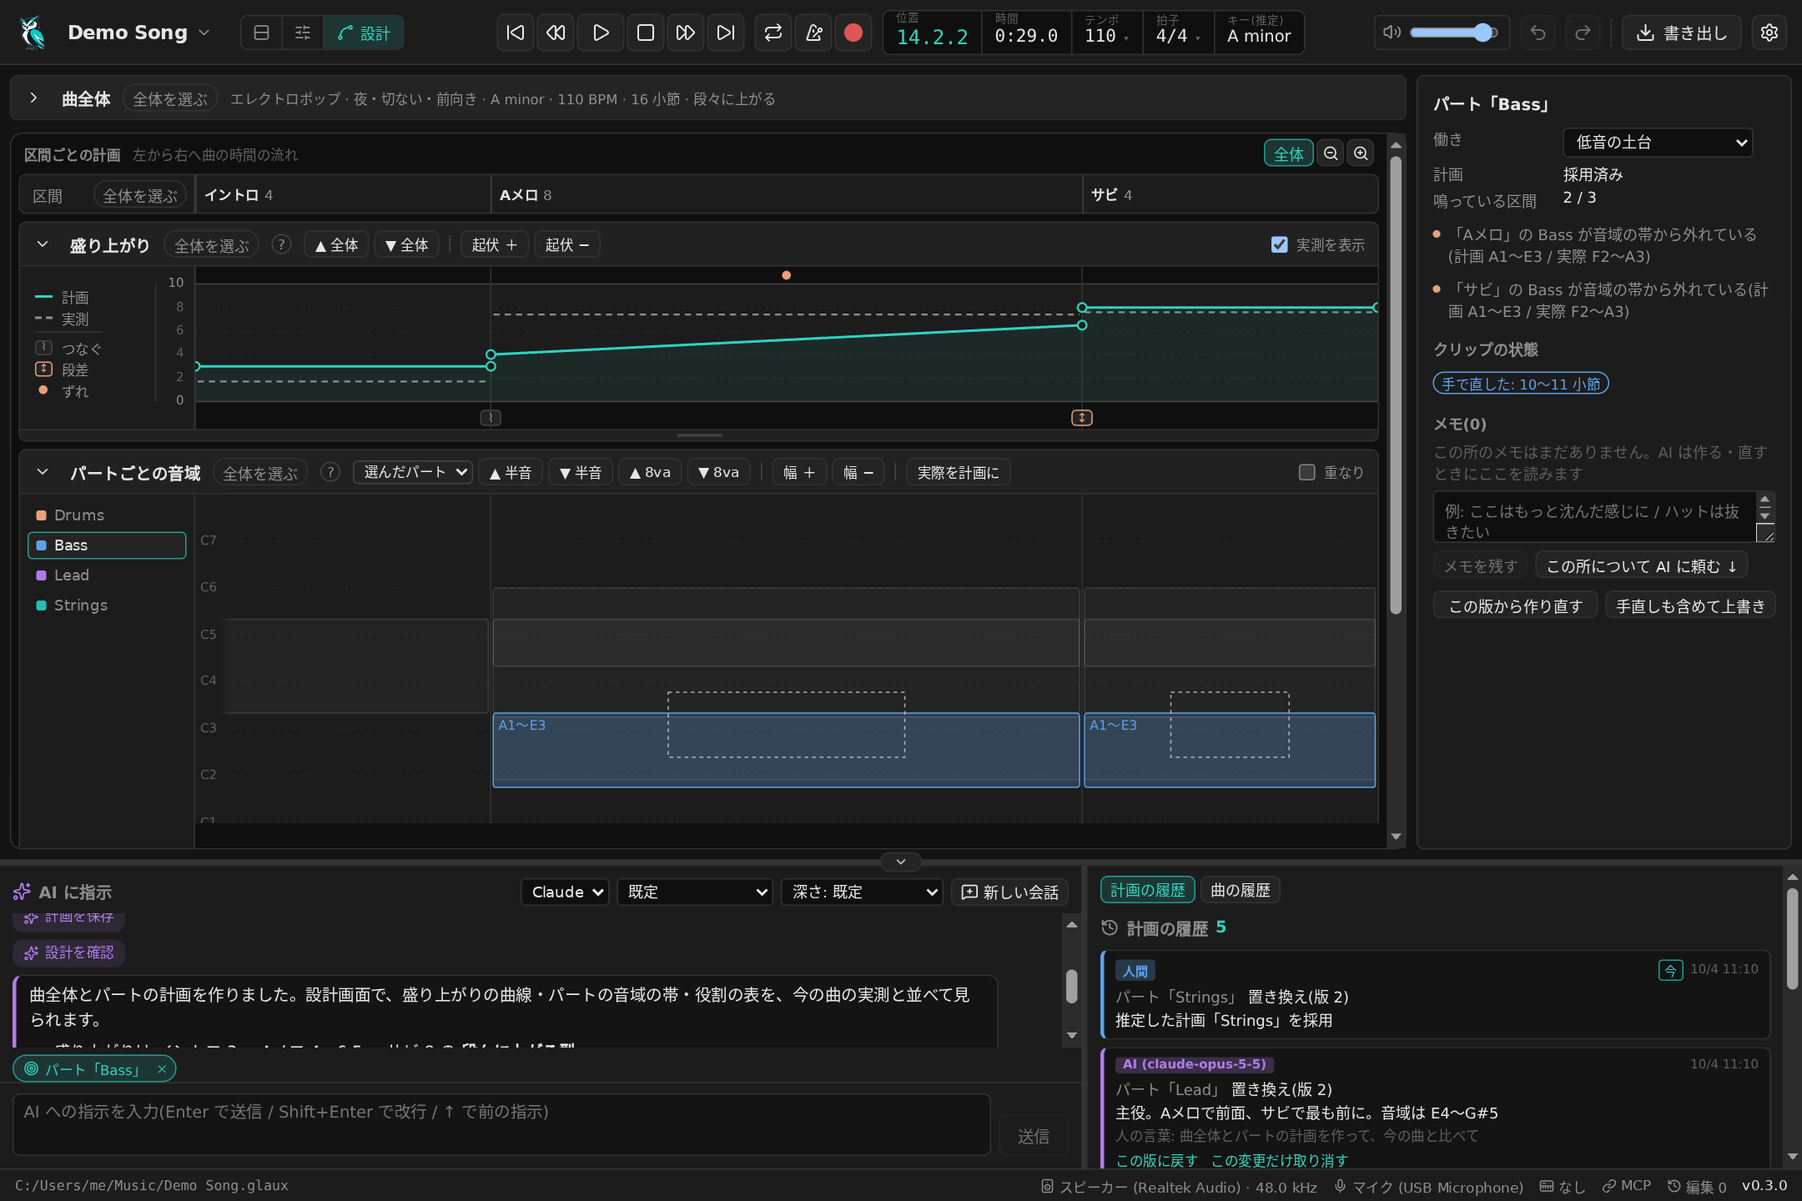
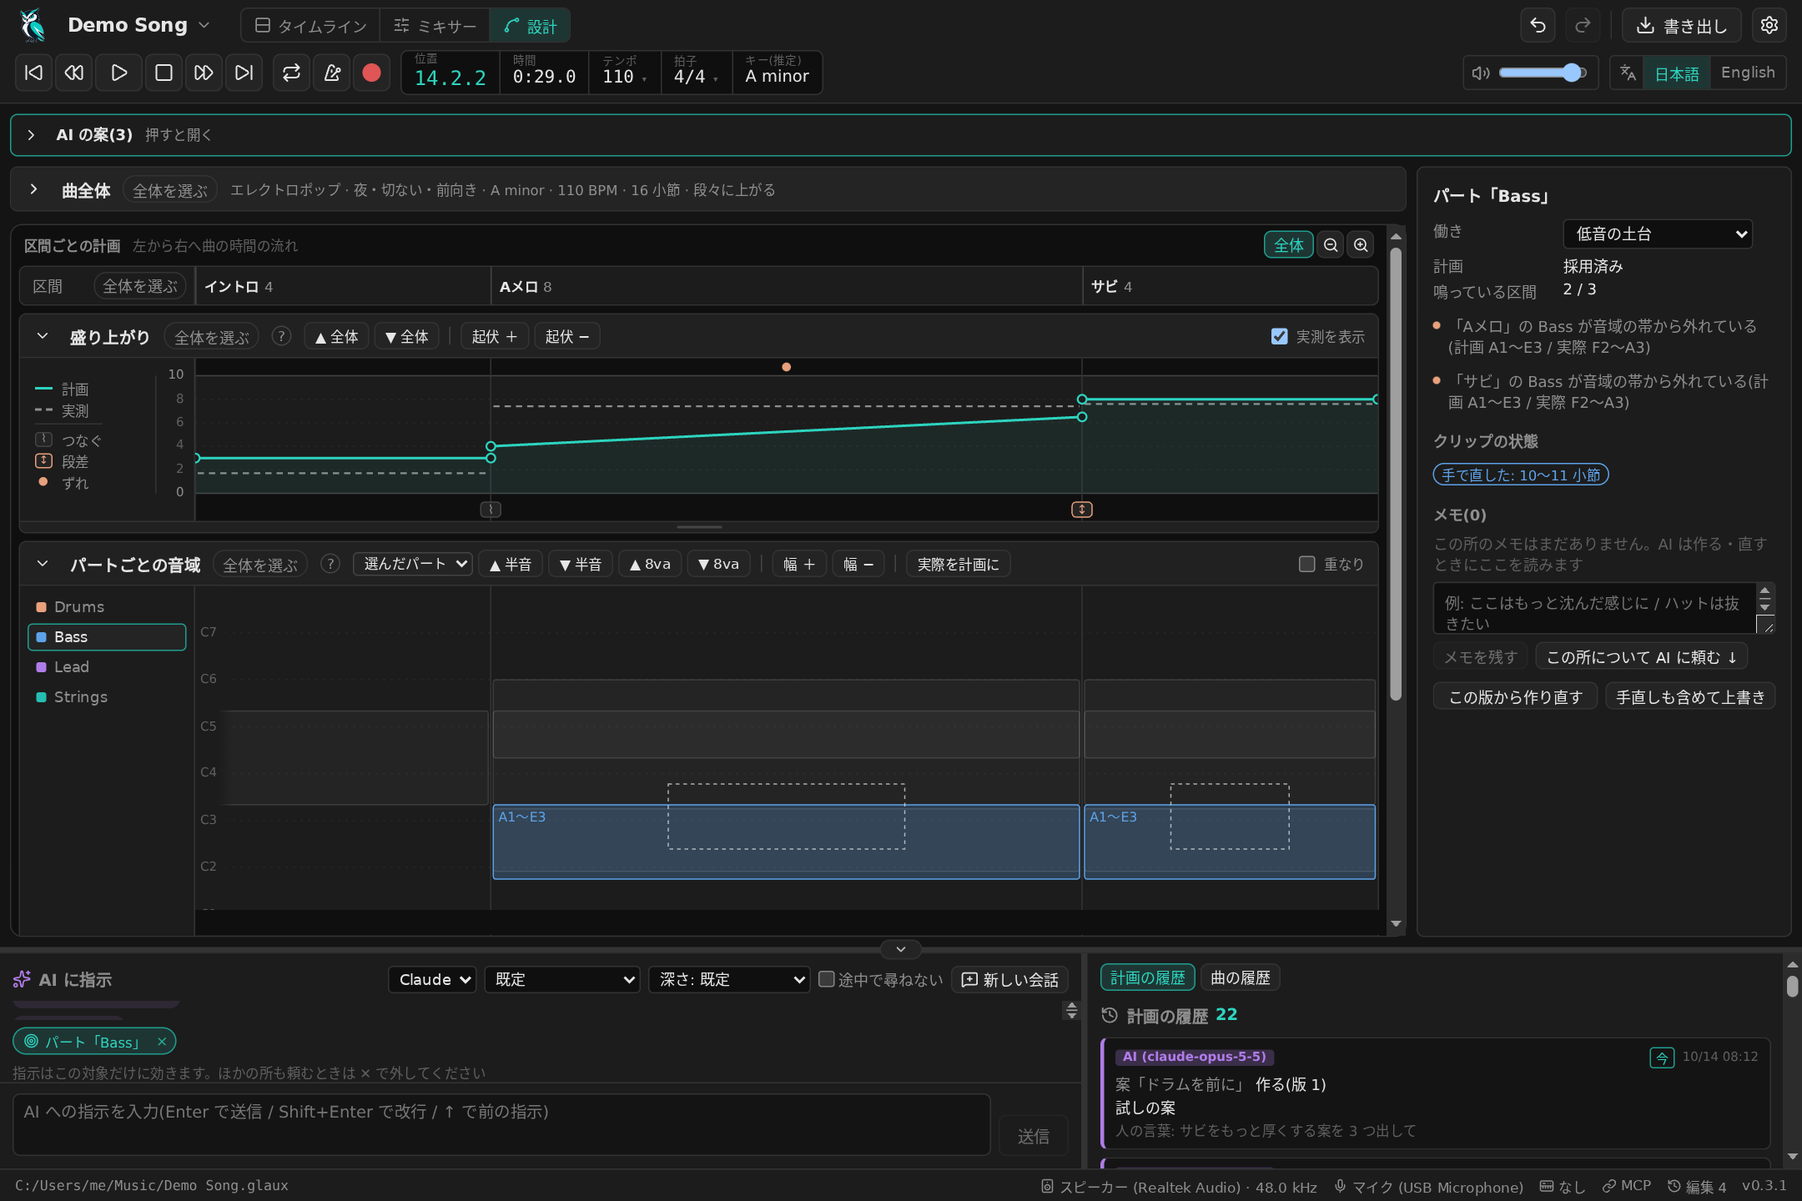
README を機能ごとの節に整理し、画面の画像を今の画面で撮り直す
- 「特徴」の箇条書きと、その後にまとめて貼っていた画像を、「できること」の節に分けた。
  AI と一緒に作る / 曲を設計する / 案を聴き比べて選ぶ / 打ち込む・録る / 音を作る / 混ぜて仕上げる /
  ゲームで鳴らす / AI にやさしい設計 の順に、短い説明と関係する画像 1 枚を置く
- 冒頭に節への案内(できること・はじめかた・MCP・Godot・構成・ライセンス)を足した
- 書いていなかった機能を足した: 対象をしぼって頼む、音色エディタ、GM 音源の自動取得、
  無料のプラグインの入手、書き出しの形式(FLAC・音量の目標・ゲーム用・効果音用)
- 画像はデモ曲で撮り直した(タイムライン・設計・案の聴き比べ・ミキサー)。
  ピアノロール(ほかのパートを重ねた表示)と音色エディタ(ウェーブテーブル)の画像を新しく足した
- 英語版も同じ構成に合わせた(画像は日本語の画面で、英語に切り替えられることを書いた)

diff --git a/README.md b/README.md
@@ -7,35 +7,82 @@
 **AI と一緒に曲を作る、シンプルで軽量なデスクトップ DAW** です(Rust + Tauri + Svelte 5)。
 チャットで「4 小節のベースを作って」「サビだけ盛り上げて」と頼むと、AI がプロジェクトを直接編集し、タイムラインにすぐ反映されます。
 
+<p align="center">
+  <a href="#できること">できること</a> ·
+  <a href="#はじめかたwindows">はじめかた</a> ·
+  <a href="#mcp-クライアントからつなぐ">MCP</a> ·
+  <a href="#godot-4-で使う">Godot</a> ·
+  <a href="#構成">構成</a> ·
+  <a href="#同梱物とライセンス">ライセンス</a>
+</p>
+
 ![タイムラインと AI への指示・履歴](docs/images/screenshot-timeline.png)
 
 > [!NOTE]
 > 個人で開発している実験的なプロジェクトです。主に Windows 11 で確認しています(Linux はコアとエンジンのビルド・テストのみ、macOS は未確認)。
 > 仕様やファイル形式は予告なく変わることがあります。
 
-## 特徴
+## できること
 
-- **AI と共同作曲** — 相手は Claude(Claude Code)か GPT(Codex CLI)。人間と AI の編集は同じ履歴に残り、AI の 1 ターン分をまとめて取り消せます。
-  履歴の各編集や AI の 1 ターンは、その前と今を音量をそろえて聴き比べられます。AI は決め手が分からないとき、作る前に選択肢で尋ねます
-  (`/goal` で「おまかせ」にもできます)。送った指示は直して送り直せます(会話も曲も、その指示の前まで戻ります)。画面と AI の返答は日本語と英語を選べます
-- **AI の「耳」** — 音量・帯域・キーとコード・リズム・音色を AI 自身が測り、確かめてから報告します
-- **曲の設計** — 曲全体の計画(ジャンル・雰囲気・盛り上がりの波)と、区間ごとの盛り上がり・パートの音域・パートの役割を、
-  今の曲の実測と並べて見て、その場で直せます。AI は計画と実際のずれを読んで作り・直し、固定した音や手で直した所は残します
-- **案を聴き比べて選ぶ** — 好みが分かれる直しは、AI が曲を変えずに「案」として出します。今と案(4 つまで)を音量をそろえ、
-  同じ位置のまま切り替えて聴き、気に入った案を採用します。採用はどの画面からでも 1 回で取り消せます
-- **音源とエフェクト** — 内蔵シンセ 10 種(シンセ・FM・4 オペレーター FM・ウェーブテーブル・加算合成・グラニュラー・ドラム・撥弦・サンプラー・SoundFont / SFZ)、エフェクト 32 種(EQ・8 バンド EQ・ダイナミック EQ・共鳴抑制・仮想低音・コンプ・マルチバンドコンプ・トランジェントシェイパー・リミッタ・クリッパー・ゲート・ディエッサー・サチュレーション・ステレオの幅・リバーブ・畳み込みリバーブ・ディレイ・コーラス・フェイザー・トランスゲート・ピッチ補正・ハーモナイザー・アンプなど)、CLAP / VST3 プラグイン(Surge XT など)
-- **ミキサーとエフェクトのノード表示** — 全トラックを縦の列で並べて音量・パン・送り・メーターを見渡せます。エフェクトはカードを自由に置いて線でつなぎ、分けて混ぜる(原音 + リバーブなど)こともできます。つながっていないカードは鳴らずに取っておけ、よくできた設定は「エフェクトのプリセット」として別の曲でも使えます。右端のモニター列では、左右の広がり(ゴニオメーター・相関)を見て、モノ・サイド・左右入れ替え・ヘッドホン向けのクロスフィードに切り替えて聴けます(書き出しには入りません)
-- **打ち込みと録音** — ピアノロール、ドラムキット、フレット盤、MIDI キーボード、MIDI ファイルの読み書き、録音、鼻歌の譜起こし、パート分離、テンポ追従
-- **AI にやさしい設計** — プロジェクトは読める JSON。すべての編集が同じコマンドを通り、完全に undo できます。MCP サーバーを内蔵
-- **ゲームで鳴らす** — Godot 4 の拡張で、曲をゲームの中で鳴らし、敵の動きや判定を拍に同期できます
+### AI と一緒に作る
+
+相手は Claude(Claude Code)か GPT(Codex CLI)。AI は Glaux の道具でプロジェクトを直接編集し、その結果はすぐ画面に出ます。
+
+- **同じ履歴** — 人と AI の編集は 1 本の履歴に並び、AI の 1 ターン分をまとめて取り消せます。どの編集も、その前と今を音量をそろえて聴き比べられます
+- **AI の「耳」** — 音量・帯域・キーとコード・リズム・音色・音のぶつかりを AI 自身が測り、確かめてから報告します
+- **尋ねてから作る** — 決め手が分からないときは、作る前に選択肢で尋ねます(`/goal` で「おまかせ」にもできます)。送った指示は直して送り直せます(会話も曲も、その指示の前まで戻ります)
+- **対象をしぼる** — 区間・パート・クリップを選んでから頼むと、指示はそこだけに効きます
+- 画面と AI の返答は日本語と英語を選べます
+
+### 曲を設計する
 
 ![設計画面: 曲全体と区間ごとの計画(盛り上がり・パートの音域・役割)を、今の曲の実測と並べて見る](docs/images/screenshot-design.png)
 
+曲全体の計画(ジャンル・雰囲気・盛り上がりの波)と、区間ごとの盛り上がり・パートの音域・パートの役割を、今の曲の実測と並べて見て、その場で直せます。
+AI は計画と実際のずれを読んで作り・直し、固定した音や手で直した所は残します。
+
+### 案を聴き比べて選ぶ
+
 ![AI の案を、今の曲と音量をそろえて切り替えながら聴き比べる](docs/images/screenshot-proposals.png)
+
+好みが分かれる直しは、AI が曲を変えずに「案」として出します。今と案(4 つまで)を音量をそろえ、同じ位置のまま切り替えて聴き、
+気に入った案を採用します。採用はどの画面からでも 1 回で取り消せます。
+
+### 打ち込む・録る
+
+![ピアノロール: ほかのパートを薄く重ねて表示](docs/images/screenshot-pianoroll.png)
+
+- ピアノロール(ほかのパートを重ねて表示・ベロシティ・手で描くピッチカーブ・クオンタイズ・スウィング)、ドラムキット、ギターのフレット盤
+- MIDI キーボードからの入力と録音、MIDI ファイルの読み書き
+- オーディオの録音、鼻歌の譜起こし、パート分離、テンポ追従
+
+### 音を作る
+
+![音色エディタ: ウェーブテーブルの波形の移り変わりと倍音を見ながら調整する](docs/images/screenshot-sound-editor.png)
+
+- **内蔵シンセ 10 種** — シンセ・FM・4 オペレーター FM・ウェーブテーブル・加算合成・グラニュラー・ドラム・撥弦・サンプラー・SoundFont / SFZ
+- **音色エディタ** — ウェーブテーブル・加算合成・4 オペレーター FM・グラニュラー・サンプラー・SFZ は、波形・倍音・変調のつなぎ方などを絵で見ながら作り込めます。「もっと太く」のように AI に言葉で頼むこともできます
+- **生楽器の音源** — 初めての起動で GM 音源(128 音色の SoundFont)を自動で入れます。無料の SFZ 音源も音源の選択から取得できます
+- **プラグイン** — CLAP / VST3 に対応。Surge XT・Dexed・OB-Xf などの無料のプラグインは、「無料のプラグインを入手」から作者の公式の配布を取得して入れられます(Windows)
+
+### 混ぜて仕上げる
 
 ![ミキサーとエフェクトのノード表示](docs/images/screenshot-mixer.png)
 
-AI ができること・作れるジャンルの詳細は [`docs/CAPABILITIES.md`](docs/CAPABILITIES.md) にあります。
+- **ミキサー** — 全トラックを縦の列で並べて、音量・パン・送り・メーターを見渡せます
+- **エフェクト 32 種** — EQ・8 バンド EQ・ダイナミック EQ・共鳴抑制・仮想低音・コンプ・マルチバンドコンプ・トランジェントシェイパー・リミッタ・クリッパー・ゲート・ディエッサー・サチュレーション・ステレオの幅・リバーブ・畳み込みリバーブ・ディレイ・コーラス・フェイザー・トランスゲート・ピッチ補正・ハーモナイザー・アンプなど
+- **ノード表示** — エフェクトはカードを自由に置いて線でつなぎ、分けて混ぜる(原音 + リバーブなど)こともできます。よくできた設定は「エフェクトのプリセット」として別の曲でも使えます
+- **モニター** — 左右の広がり(ゴニオメーター・相関)を見て、モノ・サイド・左右入れ替え・ヘッドホン向けのクロスフィードに切り替えて聴けます(書き出しには入りません)
+- **書き出し** — WAV / FLAC(曲全体・トラックごと)、配信や放送向けの音量(-14 / -16 / -23 LUFS)、MIDI、ゲーム用、効果音用の曲
+
+### ゲームで鳴らす
+
+Godot 4 の拡張で、曲をゲームの中で鳴らし、敵の動きや判定を拍に同期できます。効果音を BGM のコードに合わせて鳴らすこともできます([下に詳しく](#godot-4-で使う))。
+
+### AI にやさしい設計
+
+プロジェクトは読める JSON のフォルダです。すべての編集が同じコマンドを通り、完全に undo できます。MCP サーバーを内蔵しているので、
+ほかの MCP クライアントからも同じ曲を編集できます。AI ができること・作れるジャンルの詳細は [`docs/CAPABILITIES.md`](docs/CAPABILITIES.md) にあります。
 
 ## はじめかた(Windows)
 

diff --git a/README.en.md b/README.en.md
@@ -7,6 +7,15 @@
 **A simple, lightweight desktop DAW for making music together with AI** (Rust + Tauri + Svelte 5).
 Ask in the chat — "write a 4-bar bassline", "make only the chorus bigger" — and the AI edits the project directly, with changes showing up on the timeline right away.
 
+<p align="center">
+  <a href="#features">Features</a> ·
+  <a href="#getting-started-windows">Getting started</a> ·
+  <a href="#connect-from-an-mcp-client">MCP</a> ·
+  <a href="#use-it-in-godot-4">Godot</a> ·
+  <a href="#structure">Structure</a> ·
+  <a href="#bundled-components-and-license">License</a>
+</p>
+
 ![The timeline with the AI chat and edit history (the UI is in Japanese)](docs/images/screenshot-timeline.png)
 
 > [!NOTE]
@@ -16,27 +25,67 @@ Ask in the chat — "write a 4-bar bassline", "make only the chorus bigger" — 
 
 ## Features
 
-- **Compose with AI** — Work with Claude (Claude Code) or GPT (Codex CLI). Human and AI edits share one history, and you can undo an AI's whole turn at once.
-  For any edit in the history, or any AI turn, you can compare before and now at matched loudness. When the key decisions are unclear, the AI asks you with
-  multiple-choice questions before writing (or type `/goal` to leave it up to the AI). You can edit and resend a message you sent; the conversation and the song
-  rewind to just before it. The UI and the AI's replies can be in Japanese or English
-- **The AI can listen** — It measures loudness, frequency balance, key and chords, rhythm and timbre by itself, and checks its work before reporting
-- **Song design** — See the plan for the whole song (genre, mood, the shape of the energy) and, per section, the energy curve, each part's register and each part's role,
-  side by side with what the song actually does, and edit them in place. The AI reads where the song drifts from the plan when it writes and revises, and keeps the notes you locked and the bars you edited by hand
-- **Compare proposals by ear** — For changes that come down to taste, the AI leaves the song untouched and offers "proposals". Switch between the current song and up to four proposals
-  at matched loudness without losing your place, then adopt the one you like. An adoption can be undone in one step from any screen
-- **Instruments and effects** — 10 built-in instruments (subtractive, FM, 4-operator FM, wavetable, additive, granular, drums, plucked string, sampler, SoundFont / SFZ), 32 effects (EQ, 8-band EQ, dynamic EQ, resonance suppressor, virtual bass, compressor, multiband compressor, transient shaper, limiter, clipper, gate, de-esser, saturation, stereo width, reverb, convolution reverb, delay, chorus, phaser, trance gate, pitch correction, harmonizer, amp, and more), and CLAP / VST3 plugins (e.g. Surge XT)
-- **Mixer and effect node view** — See every track as a vertical strip with volume, pan, sends and meters. Effects are cards you place freely and connect with cables, including splitting and merging (e.g. dry + reverb in parallel). Unconnected cards stay silent but keep their settings, and good settings can be saved as effect presets for other songs. The monitor strip on the right shows the stereo image (goniometer and correlation) and lets you listen in mono, side only, swapped, or with headphone crossfeed (never included in exports)
-- **Write and record** — Piano roll, drum kit, fretboard, MIDI keyboard, MIDI file import/export, audio recording, humming-to-MIDI, stem separation, tempo-following audio clips
-- **Designed for AI** — Projects are readable JSON. Every edit goes through the same command API with full undo. Built-in MCP server
-- **Play it in games** — A Godot 4 extension plays your songs in-game and syncs enemies or hit judgement to the beat
+The screenshots show the Japanese UI; the whole app can be switched to English.
+
+### Compose with AI
+
+Work with Claude (Claude Code) or GPT (Codex CLI). The AI edits the project directly through Glaux's own tools, and the results show up on screen right away.
+
+- **One shared history** — Human and AI edits sit in the same history, and you can undo an AI's whole turn at once. For any edit, you can compare before and now at matched loudness
+- **The AI can listen** — It measures loudness, frequency balance, key and chords, rhythm, timbre and clashing notes by itself, and checks its work before reporting
+- **It asks before writing** — When the key decisions are unclear, the AI asks with multiple-choice questions first (or type `/goal` to leave it up to the AI). You can edit and resend a message; the conversation and the song rewind to just before it
+- **Narrow the target** — Select a section, part or clip before asking, and the request applies only there
+- The UI and the AI's replies can be in Japanese or English
+
+### Design the song
 
 ![The design view: the plan for the whole song and for each section (energy, each part's register and role) next to what the song actually does](docs/images/screenshot-design.png)
 
+See the plan for the whole song (genre, mood, the shape of the energy) and, per section, the energy curve, each part's register and each part's role,
+side by side with what the song actually does, and edit them in place.
+The AI reads where the song drifts from the plan when it writes and revises, and keeps the notes you locked and the bars you edited by hand.
+
+### Compare proposals by ear
+
 ![Switching between the current song and the AI's proposals at matched loudness](docs/images/screenshot-proposals.png)
+
+For changes that come down to taste, the AI leaves the song untouched and offers "proposals". Switch between the current song and up to four proposals
+at matched loudness without losing your place, then adopt the one you like. An adoption can be undone in one step from any screen.
+
+### Write and record
+
+![The piano roll with the other parts shown faintly behind](docs/images/screenshot-pianoroll.png)
+
+- Piano roll (other parts shown behind, velocity, hand-drawn pitch curves, quantize, swing), drum kit, guitar fretboard
+- MIDI keyboard input and recording, MIDI file import/export
+- Audio recording, humming-to-MIDI, stem separation, tempo-following audio clips
+
+### Make sounds
+
+![The sound editor: shaping a wavetable while watching how the waveform and harmonics change](docs/images/screenshot-sound-editor.png)
+
+- **10 built-in instruments** — subtractive, FM, 4-operator FM, wavetable, additive, granular, drums, plucked string, sampler, SoundFont / SFZ
+- **Sound editor** — Shape wavetable, additive, 4-operator FM, granular, sampler and SFZ sounds while watching the waveform, harmonics and modulation routing. You can also ask the AI in words, like "make it fatter"
+- **Acoustic instruments** — A General MIDI SoundFont (128 instruments) is installed automatically on first launch. Free SFZ instruments can be downloaded from the instrument picker
+- **Plugins** — CLAP / VST3 support. Free plugins such as Surge XT, Dexed and OB-Xf can be installed from their authors' official releases with "Get free plugins" (Windows)
+
+### Mix and finish
 
 ![The mixer and the effect node view](docs/images/screenshot-mixer.png)
 
+- **Mixer** — See every track as a vertical strip with volume, pan, sends and meters
+- **32 effects** — EQ, 8-band EQ, dynamic EQ, resonance suppressor, virtual bass, compressor, multiband compressor, transient shaper, limiter, clipper, gate, de-esser, saturation, stereo width, reverb, convolution reverb, delay, chorus, phaser, trance gate, pitch correction, harmonizer, amp, and more
+- **Node view** — Effects are cards you place freely and connect with cables, including splitting and merging (e.g. dry + reverb in parallel). Good settings can be saved as effect presets for other songs
+- **Monitor** — See the stereo image (goniometer and correlation) and listen in mono, side only, swapped, or with headphone crossfeed (never included in exports)
+- **Export** — WAV / FLAC (full mix or per-track stems), loudness targets for streaming and broadcast (-14 / -16 / -23 LUFS), MIDI, for games, and as a sound-effect song
+
+### Play it in games
+
+A Godot 4 extension plays your songs in-game and syncs enemies or hit judgement to the beat. Sound effects can follow the chords of the background music ([details below](#use-it-in-godot-4)).
+
+### Designed for AI
+
+A project is a folder of readable JSON. Every edit goes through the same command API with full undo, and the built-in MCP server lets other MCP clients edit the same song.
 See [`docs/CAPABILITIES.md`](docs/CAPABILITIES.md) (Japanese) for what the AI can do and which genres it can make.
 
 ## Getting started (Windows)
